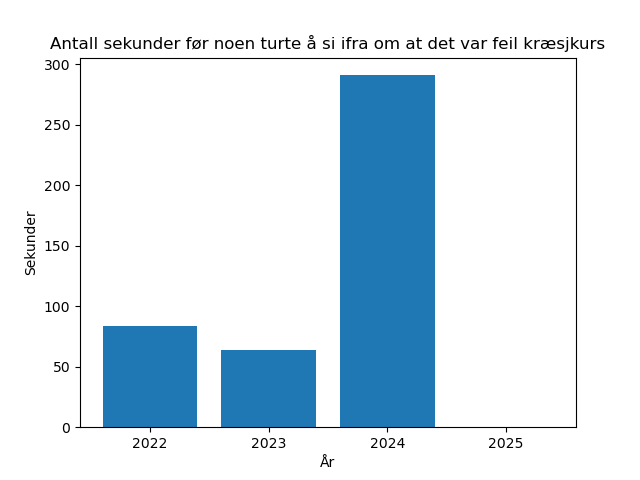
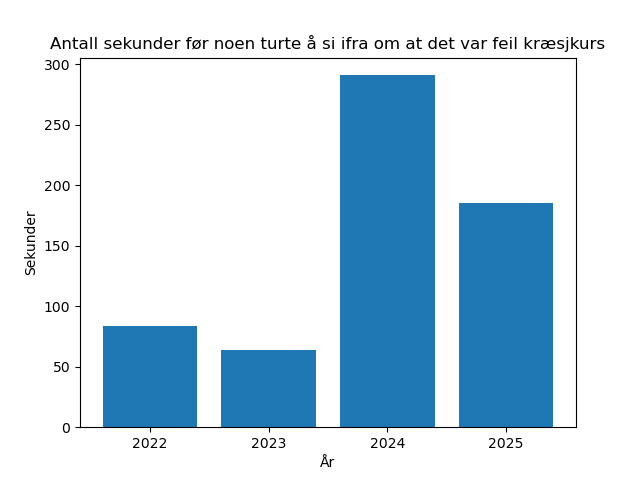
Update stats

Changed region(s): [[0.7188, 0.4062, 0.875, 0.9062]]

diff --git a/plot_stats.py b/plot_stats.py
@@ -1,10 +1,10 @@
 import matplotlib.pyplot as plt
 
-minutes = 0
-seconds = 0
+minutes = 3
+seconds = 5
 
 years = [2022, 2023, 2024, 2025]
-results = [84, 64, 291, 60 * minutes + seconds]
+results = [84, 64, 291, 185]
 
 plt.bar(years, results)
 plt.xticks(years)
